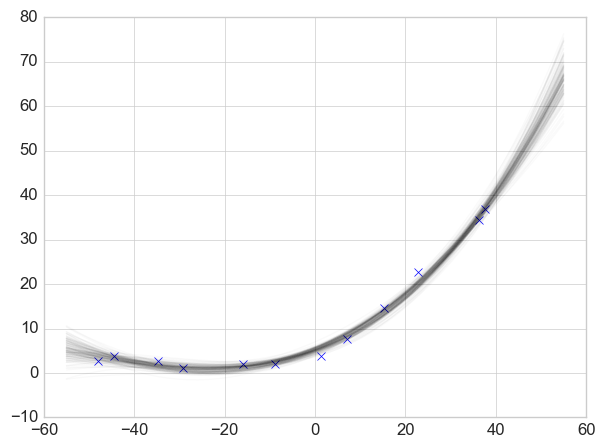
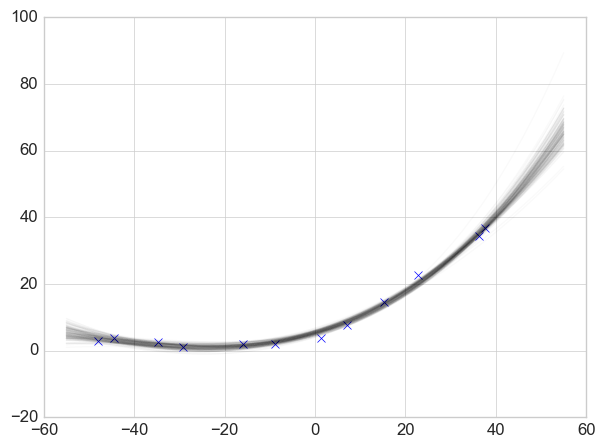
revision

diff --git a/_posts/2015-12-20-pymc-regression-analysis.html b/_posts/2015-12-20-pymc-regression-analysis.html
@@ -105,7 +105,13 @@ Sampling&#x2026;&#x2026;Done!
 <div class="outline-text-2" id="text-orgheadline2">
 <p>
 处理线性回归问题，通常指定因变量 Y 属于一个正态分布：
-$ Y &sim; N(&mu;, &sigma;) $， 其中 $ &mu; = &alpha; + \betaX $
+</p>
+
+<p>
+\(Y \sim N(\mu, \sigma)\) ， 其中 \(\mu = \alpha + \beta X\)
+</p>
+
+<p>
 由于现实问题经常会有 outliner 出现，指定 Y 属于 t-分布会产生更加好的结果。
 </p>
 
@@ -181,13 +187,13 @@ alpha:
   Mean             SD               MC Error         95% HPD interval
   -------------------------------------------------------------------
   
-  2.965            0.094            nan              [2.746, 3.159]
+  3.034            0.146            nan              [2.803, 3.367]
 
   Posterior quantiles:
   2.5            25             50             75             97.5
   |--------------|==============|==============|--------------|
   
-  2.746          2.925          2.966          3.025          3.159
+  2.803          2.943          3.037          3.137          3.367
 
 
 beta:
@@ -195,13 +201,13 @@ beta:
   Mean             SD               MC Error         95% HPD interval
   -------------------------------------------------------------------
   
-  6.637            1.182            nan              [3.910, 8.712]
+  5.618            1.563            nan              [2.321, 8.670]
 
   Posterior quantiles:
   2.5            25             50             75             97.5
   |--------------|==============|==============|--------------|
   
-  4.160          5.950          6.747          7.268          9.593
+  2.321          4.744          5.780          6.721          8.670
 </pre>
 
 <p>
@@ -334,13 +340,13 @@ beta0:
   Mean             SD               MC Error         95% HPD interval
   -------------------------------------------------------------------
   
-  5.121            0.551            0.053            [3.956, 6.045]
+  5.371            0.551            0.060            [4.342, 6.408]
 
   Posterior quantiles:
   2.5            25             50             75             97.5
   |--------------|==============|==============|--------------|
   
-  3.913          4.801          5.160          5.525          6.035
+  4.227          5.009          5.397          5.792          6.400
 
 
 beta1:
@@ -348,16 +354,16 @@ beta1:
   Mean             SD               MC Error         95% HPD interval
   -------------------------------------------------------------------
   
-  0.388            0.042            0.004            [0.298, 0.464]
-  0.010            0.001            0.000            [0.009, 0.012]
+  0.392            0.035            0.003            [0.327, 0.453]
+  0.010            0.001            0.000            [0.009, 0.011]
   0.000            0.000            0.000            [0.000, 0.000]
 
   Posterior quantiles:
   2.5            25             50             75             97.5
   |--------------|==============|==============|--------------|
   
-  0.298          0.361          0.392          0.418          0.464
-  0.009          0.010          0.010          0.011          0.012
+  0.329          0.363          0.392          0.417          0.456
+  0.009          0.010          0.010          0.010          0.012
   0.000          0.000          0.000          0.000          0.000
 </pre>
 
@@ -386,5 +392,19 @@ beta1:
 <p><img src="/./assets/images/polyfit.png" alt="polyfit.png" />
 </p>
 </div>
+
+
+<div class="figure">
+<p><img src="/./assets/images/polyfit.png" alt="polyfit.png" />
+</p>
+</div>
+
+<p>
+可以看到，三次项的系数基本等于 0，说明这一项对预测几乎没有作用。这一点可以帮助我们选择哪些变量。另一个方法是，给每个变量乘一个参数，这个参数符合博努利分布，如果最后结果这个参数的 p 小于一个阀值就可以认为对应的变量影响力太小可以忽略。
+</p>
+
+<p>
+以上。
+</p>
 </div>
 </div>
